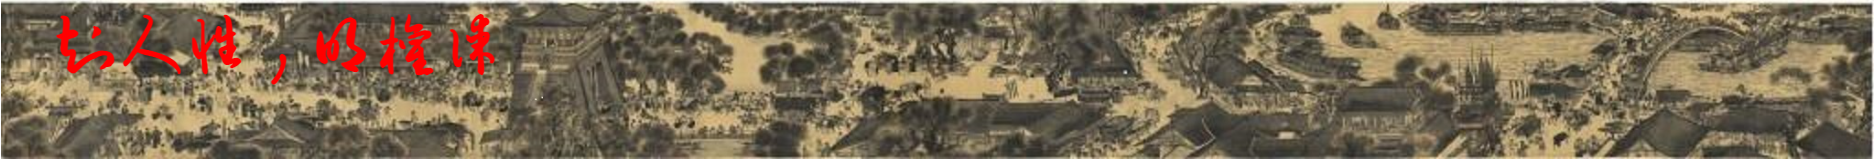
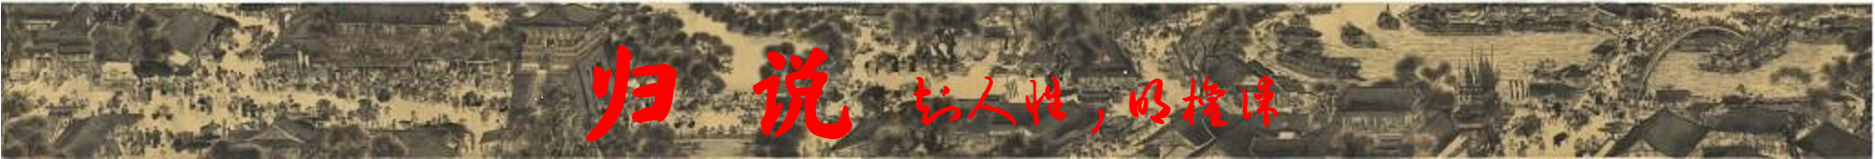
updates

diff --git a/index.html b/index.html
@@ -10,8 +10,31 @@
     <link rel="stylesheet" href="./src/css@3.css">
     <script type="text/javascript" src="./src/init-nav.js"></script>
     <script src = "https://ajax.googleapis.com/ajax/libs/jquery/2.1.3/jquery.min.js"></script>
-    <style type="text/css">@import url('https://themes.googleusercontent.com/fonts/css?kit=tAvLzC4MWhsALh6Fv508biR3zv79o_3FO6DF_2gpXwQe8vnHY0A_yNXGAaBuBOA4');ol{margin:0;padding:0}table td,table th{padding:0}.c23{-webkit-text-decoration-skip:none;color:#000000;font-weight:400;text-decoration:underline;vertical-align:baseline;text-decoration-skip-ink:none;font-size:16pt;font-family:"Ma Shan Zheng";font-style:normal}.c12{-webkit-text-decoration-skip:none;color:#000000;font-weight:700;text-decoration:underline;vertical-align:baseline;text-decoration-skip-ink:none;font-size:16pt;font-family:"Ma Shan Zheng";font-style:normal}.c29{padding-top:0pt;border-bottom-color:#000000;border-bottom-width:0.8pt;padding-bottom:1pt;line-height:1.0;border-bottom-style:solid;text-align:center}.c19{color:#000000;font-weight:400;text-decoration:none;vertical-align:baseline;font-size:18pt;font-family:"Ma Shan Zheng";font-style:normal}.c0{color:#000000;font-weight:400;text-decoration:none;vertical-align:baseline;font-size:16pt;font-family:"Ma Shan Zheng";font-style:normal}.c20{color:#000000;font-weight:700;text-decoration:none;vertical-align:baseline;font-size:18pt;font-family:"Ma Shan Zheng";font-style:normal}.c15{color:#000000;font-weight:700;text-decoration:none;vertical-align:baseline;font-size:22pt;font-family:"Ma Shan Zheng";font-style:normal}.c9{color:#000000;font-weight:400;text-decoration:none;vertical-align:baseline;font-size:42pt;font-family:"Ma Shan Zheng";font-style:normal}.c7{color:#000000;font-weight:700;text-decoration:none;vertical-align:baseline;font-size:16pt;font-family:"Ma Shan Zheng";font-style:normal}.c22{color:#000000;font-weight:400;text-decoration:none;vertical-align:baseline;font-size:26pt;font-family:"Ma Shan Zheng";font-style:normal}.c33{color:#000000;font-weight:700;text-decoration:none;vertical-align:baseline;font-size:42pt;font-family:"Ma Shan Zheng";font-style:normal}.c16{color:#000000;font-weight:700;text-decoration:none;vertical-align:baseline;font-size:26pt;font-family:"Ma Shan Zheng";font-style:normal}.c5{color:#000000;font-weight:400;text-decoration:none;vertical-align:baseline;font-size:10.5pt;font-family:"Ma Shan Zheng";font-style:normal}.c24{color:#000000;font-weight:400;text-decoration:none;vertical-align:baseline;font-size:9pt;font-family:"Ma Shan Zheng";font-style:normal}.c6{color:#000000;font-weight:400;text-decoration:none;vertical-align:baseline;font-size:22pt;font-family:"Ma Shan Zheng";font-style:normal}.c2{padding-top:0pt;padding-bottom:0pt;line-height:1.0;text-align:justify;height:10pt}.c18{padding-top:0pt;padding-bottom:0pt;line-height:1.0;text-align:left;margin-right:18pt}.c4{padding-top:0pt;padding-bottom:0pt;line-height:1.0;text-indent:80pt;text-align:justify}.c1{padding-top:0pt;padding-bottom:0pt;line-height:1.0;text-indent:32pt;text-align:justify}.c28{padding-top:0pt;padding-bottom:0pt;line-height:1.0;text-align:right}.c3{padding-top:0pt;padding-bottom:0pt;line-height:1.0;text-align:center}.c8{padding-top:0pt;padding-bottom:0pt;line-height:1.0;text-align:justify}.c27{background-color:#ffffff;max-width:415.3pt;padding:72pt 90pt 72pt 90pt}.c21{text-indent:112pt}.c26{text-indent:31.5pt}.c17{text-indent:64pt}.c32{text-indent:112.5pt}.c30{text-indent:336pt}.c13{height:10pt}.c14{text-indent:32pt}.c25{text-indent:144pt}.c10{text-indent:32.1pt}.c31{text-indent:96pt}.c11{margin-left:31.9pt}.title{padding-top:24pt;color:#000000;font-weight:700;font-size:36pt;padding-bottom:6pt;font-family:"Ma Shan Zheng";line-height:1.0;page-break-after:avoid;orphans:2;widows:2;text-align:left}.subtitle{padding-top:18pt;color:#666666;font-size:24pt;padding-bottom:4pt;font-family:"Georgia";line-height:1.0;page-break-after:avoid;font-style:italic;orphans:2;widows:2;text-align:left}
-    li{color:#000000;font: size 14px;pt;font-family:"Ma Shan Zheng"}p{margin:0;color:#000000;font-size:10pt;font-family:"Ma Shan Zheng"}h1{padding-top:24pt;color:#000000;font-weight:700;font-size:24pt;padding-bottom:6pt;font-family:"Ma Shan Zheng";line-height:1.0;page-break-after:avoid;orphans:2;widows:2;text-align:left}h2{padding-top:18pt;color:#000000;font-weight:700;font-size:18pt;padding-bottom:4pt;font-family:"Ma Shan Zheng";line-height:1.0;page-break-after:avoid;orphans:2;widows:2;text-align:left}h3{padding-top:14pt;color:#000000;font-weight:700;font-size:14pt;padding-bottom:4pt;font-family:"Ma Shan Zheng";line-height:1.0;page-break-after:avoid;orphans:2;widows:2;text-align:left}h4{padding-top:12pt;color:#000000;font-weight:700;font-size:12pt;padding-bottom:2pt;font-family:"Ma Shan Zheng";line-height:1.0;page-break-after:avoid;orphans:2;widows:2;text-align:left}h5{padding-top:11pt;color:#000000;font-weight:700;font-size:11pt;padding-bottom:2pt;font-family:"Ma Shan Zheng";line-height:1.0;page-break-after:avoid;orphans:2;widows:2;text-align:left}h6{padding-top:10pt;color:#000000;font-weight:700;font-size:10pt;padding-bottom:2pt;font-family:"Ma Shan Zheng";line-height:1.0;page-break-after:avoid;orphans:2;widows:2;text-align:left}</style>
+    <style type="text/css">
+    @import url('https://themes.googleusercontent.com/fonts/css?kit=tAvLzC4MWhsALh6Fv508biR3zv79o_3FO6DF_2gpXwQe8vnHY0A_yNXGAaBuBOA4');
+    ol{margin:0;padding:0}
+    table td,table th{padding:0}
+    .c23{-webkit-text-decoration-skip:none;color:#000000;font-weight:400;text-decoration:underline;vertical-align:baseline;text-decoration-skip-ink:none;font-size:16pt;font-family:"Ma Shan Zheng";font-style:normal}
+    .c12{-webkit-text-decoration-skip:none;color:#000000;font-weight:700;text-decoration:underline;vertical-align:baseline;text-decoration-skip-ink:none;font-size:16pt;font-family:"Ma Shan Zheng";font-style:normal}
+    .c29{padding-top:0pt;border-bottom-color:#000000;border-bottom-width:0.8pt;padding-bottom:1pt;line-height:1.0;border-bottom-style:solid;text-align:center}.c19{color:#000000;font-weight:400;text-decoration:none;vertical-align:baseline;font-size:18pt;font-family:"Ma Shan Zheng";font-style:normal}
+    .c0{color:#000000;font-weight:400;text-decoration:none;vertical-align:baseline;font-size:16pt;font-family:"Ma Shan Zheng";font-style:normal}.c20{color:#000000;font-weight:700;text-decoration:none;vertical-align:baseline;font-size:18pt;font-family:"Ma Shan Zheng";font-style:normal}.c15{color:#000000;font-weight:700;text-decoration:none;vertical-align:baseline;font-size:22pt;font-family:"Ma Shan Zheng";font-style:normal}.c9{color:#000000;font-weight:400;text-decoration:none;vertical-align:baseline;font-size:42pt;font-family:"Ma Shan Zheng";font-style:normal}.c7{color:#000000;font-weight:700;text-decoration:none;vertical-align:baseline;font-size:16pt;font-family:"Ma Shan Zheng";font-style:normal}.c22{color:#000000;font-weight:400;text-decoration:none;vertical-align:baseline;font-size:26pt;font-family:"Ma Shan Zheng";font-style:normal}.c33{color:#000000;font-weight:700;text-decoration:none;vertical-align:baseline;font-size:42pt;font-family:"Ma Shan Zheng";font-style:normal}.c16{color:#000000;font-weight:700;text-decoration:none;vertical-align:baseline;font-size:26pt;font-family:"Ma Shan Zheng";font-style:normal}.c5{color:#000000;font-weight:400;text-decoration:none;vertical-align:baseline;font-size:10.5pt;font-family:"Ma Shan Zheng";font-style:normal}.c24{color:#000000;font-weight:400;text-decoration:none;vertical-align:baseline;font-size:9pt;font-family:"Ma Shan Zheng";font-style:normal}.c6{color:#000000;font-weight:400;text-decoration:none;vertical-align:baseline;font-size:22pt;font-family:"Ma Shan Zheng";font-style:normal}.c2{padding-top:0pt;padding-bottom:0pt;line-height:1.0;text-align:justify;height:10pt}.c18{padding-top:0pt;padding-bottom:0pt;line-height:1.0;text-align:left;margin-right:18pt}.c4{padding-top:0pt;padding-bottom:0pt;line-height:1.0;text-indent:80pt;text-align:justify}.c1{padding-top:0pt;padding-bottom:0pt;line-height:1.0;text-indent:32pt;text-align:justify}.c28{padding-top:0pt;padding-bottom:0pt;line-height:1.0;text-align:right}.c3{padding-top:0pt;padding-bottom:0pt;line-height:1.0;text-align:center}.c8{padding-top:0pt;padding-bottom:0pt;line-height:1.0;text-align:justify}.c27{background-color:#ffffff;max-width:415.3pt;padding:72pt 90pt 72pt 90pt}.c21{text-indent:112pt}.c26{text-indent:31.5pt}.c17{text-indent:64pt}.c32{text-indent:112.5pt}.c30{text-indent:336pt}.c13{height:10pt}.c14{text-indent:32pt}.c25{text-indent:144pt}.c10{text-indent:32.1pt}.c31{text-indent:96pt}.c11{margin-left:31.9pt}.title{padding-top:24pt;color:#000000;font-weight:700;font-size:36pt;padding-bottom:6pt;font-family:"Ma Shan Zheng";line-height:1.0;page-break-after:avoid;orphans:2;widows:2;text-align:left}.subtitle{padding-top:18pt;color:#666666;font-size:24pt;padding-bottom:4pt;font-family:"Georgia";line-height:1.0;page-break-after:avoid;font-style:italic;orphans:2;widows:2;text-align:left}
+    li{color:#000000;font: size 14px;pt;font-family:"Ma Shan Zheng"}
+    p{margin:0;color:#000000;font-size:10pt;font-family:"Ma Shan Zheng"}
+    h1{padding-top:24pt;color:#000000;font-weight:700;font-size:24pt;padding-bottom:6pt;font-family:"Ma Shan Zheng";line-height:1.0;page-break-after:avoid;orphans:2;widows:2;text-align:left}
+    h2{padding-top:18pt;color:#000000;font-weight:700;font-size:18pt;padding-bottom:4pt;font-family:"Ma Shan Zheng";line-height:1.0;page-break-after:avoid;orphans:2;widows:2;text-align:left}
+    h3{padding-top:14pt;color:#000000;font-weight:700;font-size:14pt;padding-bottom:4pt;font-family:"Ma Shan Zheng";line-height:1.0;page-break-after:avoid;orphans:2;widows:2;text-align:left}
+    h4{padding-top:12pt;color:#000000;font-weight:700;font-size:12pt;padding-bottom:2pt;font-family:"Ma Shan Zheng";line-height:1.0;page-break-after:avoid;orphans:2;widows:2;text-align:left}
+    h5{padding-top:11pt;color:#000000;font-weight:700;font-size:11pt;padding-bottom:2pt;font-family:"Ma Shan Zheng";line-height:1.0;page-break-after:avoid;orphans:2;widows:2;text-align:left}
+    h6{padding-top:10pt;color:#000000;font-weight:700;font-size:10pt;padding-bottom:2pt;font-family:"Ma Shan Zheng";line-height:1.0;page-break-after:avoid;orphans:2;widows:2;text-align:left}
+    </style>
+    <style type="text/css">
+      @media (max-width:768px){
+        #header{background-image: url('./src/headerlogo.png');}
+      }
+      @media (min-width:769px){
+        #header{background-image: url('./src/quanmou.png');}
+      }
+    </style>
     <meta name="viewport" content="width=device-width, height=device-height, initial-scale=1.0, user-scalable=0, minimum-scale=1.0, maximum-scale=1.0">
 </head>
 <body onload="loadmenu();">
@@ -20,7 +43,7 @@
   <script src="https://unpkg.com/react@18/umd/react.development.js"></script>
   <script src="https://unpkg.com/react-dom@18/umd/react-dom.development.js"></script>
   <input style="display: none" class="menu-toggle-checkbox" type="checkbox" id="menu-toggle" />
-<div id="header" class="fix-nav nav-docs" style="background-image: url('./src/quanmou.png');">
+<div id="header" class="fix-nav nav-docs">
   <!--img id="logo" src="./src/quanmou.png" height="80"-->
     <!-- Load our React component. -->
   <label class="menu-toggle-icon" for="menu-toggle">
@@ -42,73 +65,10 @@
         <label class="submenu-toggle-click-target" for="just a test" tabindex="0" aria-label="Toggle Getting Started submenu" role="menuitem" aria-expanded="false">
             <span class="menu-item submenu-header" style="padding-left: 20px;font-weight: 500;">
                 <img src="./src/caret-right.svg">
-                <span><a href="#">Just a test</a></span>
+                <span><a href="#">...</a></span>
             </span>
         </label>
-      </li>
-      <li class="section" role="presentation">  
-        <input class="submenu-toggle-checkbox" type="checkbox" id="Getting Started" />
-        <label class="submenu-toggle-click-target" for="Getting Started" tabindex="0" aria-label="Toggle Getting Started submenu" role="menuitem" aria-expanded="false">
-            <span class="menu-item submenu-header" style="padding-left: 20px;font-weight: 500;">
-                <img src="./src/caret-right.svg">
-                <span>Getting Started</span>
-            </span>
-        </label>
-        <ul role="submenu">
-          <li class="section" role="presentation">
-              <a href="#" class="menu-item" aria-current="page" style="padding-left: 60px;" tabindex="0" role="menuitem" title="Go to documentation for Quick Start"> 
-                  <div>Quick Start</div>
-              </a>
-          </li>
-          <li class="section" role="presentation">
-            <a href="#" class="menu-item" aria-current="page" style="padding-left: 60px;" tabindex="0" role="menuitem" title="Go to documentation for Quick Start"> 
-                <div>Quick Start</div>
-            </a>
-          </li>
-          <li class="section" role="presentation">
-            <a href="#" class="menu-item " style="padding-left: 60px;" tabindex="0" role="menuitem" title="Go to documentation for Honeycomb Overview"> 
-                <div>Honeycomb Overview</div>
-            </a>
-          </li>
-          <li class="section" role="presentation">
-            <a href="#" class="menu-item " style="padding-left: 60px;" tabindex="0" role="menuitem" title="Go to documentation for Honeycomb Overview"> 
-                <div>Honeycomb Overview</div>
-            </a>
-          </li>
-        </ul>
-        </li>
-        <li class="section" role="presentation">  
-          <input class="submenu-toggle-checkbox" type="checkbox" id="Getting Started 2" />
-          <label class="submenu-toggle-click-target" for="Getting Started 2" tabindex="0" aria-label="Toggle Getting Started submenu" role="menuitem" aria-expanded="false">
-              <span class="menu-item submenu-header" style="padding-left: 20px;font-weight: 500;">
-                  <img src="./src/caret-right.svg">
-                  <span>Getting Started 2</span>
-              </span>
-          </label>
-          <ul role="submenu">
-            <li class="section" role="presentation">
-                <a href="#" class="menu-item" aria-current="page" style="padding-left: 60px;" tabindex="0" role="menuitem" title="Go to documentation for Quick Start"> 
-                    <div>Quick Start 2</div>
-                </a>
-            </li>
-            <li class="section" role="presentation">
-              <a href="#" class="menu-item" aria-current="page" style="padding-left: 60px;" tabindex="0" role="menuitem" title="Go to documentation for Quick Start"> 
-                  <div>Quick Start 2</div>
-              </a>
-            </li>
-            <li class="section" role="presentation">
-              <a href="#" class="menu-item " style="padding-left: 60px;" tabindex="0" role="menuitem" title="Go to documentation for Honeycomb Overview"> 
-                  <div>Honeycomb Overview 2</div>
-              </a>
-            </li>
-            <li class="section" role="presentation">
-              <a href="#" class="menu-item " style="padding-left: 60px;" tabindex="0" role="menuitem" title="Go to documentation for Honeycomb Overview"> 
-                  <div>Honeycomb Overview 2</div>
-              </a>
-            </li>
-          </ul>
-          </li>
-          
+      </li>     
     </ul>
   </nav>
 </div>
@@ -117,14 +77,26 @@
   <div class="docs-inner-container">
     <div class="docs-content">
       <div id="main" style="align-content: center;">
-        <p class="c3"><span class="c15">&#20316;&#32773;&#31616;&#20171;</span></p><p class="c2"><span class="c0"></span></p><p class="c1"><span class="c0">&#25140;&#20803;&#40857;&#65292;&#26165;&#31216;&ldquo;&#21487;&#32789;&#22320;&rdquo;&#65292;&#33258;&#21495;&ldquo;&#19971;&#28165;&#23376;&rdquo;&#65292;&#30007;&#65292;1970&#24180;&#20986;&#29983;&#20110;&#31119;&#24314;&#30465;&#33670;&#30000;&#24066;&#33620;&#22478;&#21306;&#19968;&#20892;&#27665;&#23478;&#24237;&#65292;2014&#24180;&#34987;&#20013;&#22269;&#28040;&#36153;&#32773;&#21327;&#20250;&#35780;&#20026;&ldquo;&#28040;&#36153;&#32773;&#20445;&#25252;&#36816;&#21160;30&#24180;&#28040;&#36153;&#32500;&#26435;&#36129;&#29486;&#20154;&#29289;&rdquo;&#65292;&#36130;&#31246;&#32463;&#27982;&#24072;&#32844;&#31216;&#36164;&#26684;&#65292;&#21407;&#20379;&#32844;&#20110;&#31119;&#24314;&#30465;&#20844;&#36335;&#31293;&#24449;&#23616;&#33670;&#30000;&#31293;&#24449;&#22788;&#65292;&#20860;&#31119;&#24314;&#30465;&#20844;&#36335;&#31293;&#24449;&#23616;&#20844;&#32844;&#24459;&#24072;&#65292;2010&#24180;&#22269;&#23478;&#23454;&#26045;&ldquo;&#25104;&#21697;&#27833;&#31246;&#36153;&#25913;&#38761;&rdquo;&#21518;&#36716;&#23703;&#22269;&#31246;&#37096;&#38376;&#65292;&#29616;&#20379;&#32844;&#20110;&#22269;&#23478;&#31246;&#21153;&#24635;&#23616;&#33670;&#30000;&#24066;&#22478;&#21410;&#21306;&#31246;&#21153;&#23616;&#12290;</span></p>
-     
+        <p class="c3"><span class="c15">&#29305;&#21035;&#25552;&#37266;</span></p>
+        <p class="c2"><span class="c0"></span></p>
+        <p class="c1"><span class="c0">&#26412;&#20070;&#20035;&#35782;&#24694;&#27835;&#20081;&#20043;&#35828;&#65292;&#38750;&#27785;&#31283;&#32773;&#65292;&#19981;&#23452;&#30740;&#35835;&#12290;</span></p>
+        <p class="c1"><span class="c0">&#19981;&#35782;&#20154;&#24615;&#31169;&#24694;&#65292;&#27835;&#20081;&#38590;&#25104;&#12290;</span></p>
+        <p class="c1"><span class="c0">&#27835;&#20081;&#21487;&#20986;&#22855;&#12290;&#22855;&#65292;&#26435;&#35851;&#20063;&#12290;&#20961;&#26435;&#35851;&#65292;&#29992;&#20110;&#22806;&#26131;&#32988;&#65292;&#29992;&#20110;&#20869;&#26131;&#20081;&#65292;&#28982;&#20869;&#22806;&#24120;&#21464;&#65292;&#20854;&#29992;&#19981;&#21487;&#19981;&#24910;&#65281;</span></p>
+        <p class="c1"><span class="c0">&#27835;&#22823;&#25919;&#24403;&#23432;&#27491;&#12290;&#27491;&#65292;&#35802;&#20063;&#12289;&#20449;&#20063;&#12289;&#20161;&#20063;&#12289;&#20041;&#20063;&#12289;&#31036;&#20063;&#12290;&#19981;&#27491;&#20043;&#27835;&#65292;&#19981;&#33021;&#25345;&#20037;&#65292;&#20854;&#27835;&#24517;&#20081;&#24517;&#36133;&#65281;</span></p>
+        <p class="c1"><span class="c0">&#20154;&#26080;&#31169;&#24694;&#65292;&#26435;&#35851;&#26080;&#29992;&#12290;&#19981;&#30693;&#26435;&#35851;&#65292;&#26131;&#20026;&#20154;&#35851;&#12290;&#26435;&#35851;&#20105;&#26007;&#65292;&#31096;&#22312;&#20854;&#21518;&#12290;&#22826;&#24179;&#30427;&#19990;&#65292;&#20154;&#24515;&#21521;&#21892;&#65292;&#20070;&#20013;&#35266;&#28857;&#19981;&#21487;&#20351;&#29992;&#12290;</span></p>
+        <p class="c8 c30"><span class="c0">&mdash;&mdash;&#20316;&#32773;</span></p>
+        <p class="c2"><span class="c5"></span></p><p class="c2"><span class="c5"></span></p><p class="c2"><span class="c5"></span></p>
+        <p class="c2"><span class="c5"></span></p>
+              
       </div>
       <footer class="docs-footer-legal">
           <hr>
           <ul>
               <li>
-              <a href="https://www.honeycomb.io/terms/" target="_blank" class="external" style="font-size: medium;">版权<img src="./src/external-link.svg"></a>
+              <a href="JavaScript:loadContent('./content/Content_zz.html');" class="external" style="font-size: medium;">作者<img src="./src/author.png" width="12", height="12"></a>
+              </li>
+              <li>
+              <a href="JavaScript:loadContent('./content/Content1.html');" class="external" style="font-size: medium;">版权<img src="./src/external-link.svg"></a>
               </li>
           </ul>
       </footer>

diff --git a/content/Content_zz.html b/content/Content_zz.html
@@ -1,0 +1,6 @@
+<p class="c3"><span class="c15">&#20316;&#32773;&#31616;&#20171;</span></p>
+<p class="c2"><span class="c0"></span></p>
+<p class="c1"><span class="c0">&#25140;&#20803;&#40857;&#65292;&#26165;&#31216;&ldquo;&#21487;&#32789;&#22320;&rdquo;&#65292;&#33258;&#21495;&ldquo;&#19971;&#28165;&#23376;&rdquo;&#65292;&#30007;&#65292;1970&#24180;&#20986;&#29983;&#20110;&#31119;&#24314;&#30465;&#33670;&#30000;&#24066;&#33620;&#22478;&#21306;&#19968;&#20892;&#27665;&#23478;&#24237;&#65292;2014&#24180;&#34987;&#20013;&#22269;&#28040;&#36153;&#32773;&#21327;&#20250;&#35780;&#20026;&ldquo;&#28040;&#36153;&#32773;&#20445;&#25252;&#36816;&#21160;30&#24180;&#28040;&#36153;&#32500;&#26435;&#36129;&#29486;&#20154;&#29289;&rdquo;&#65292;&#36130;&#31246;&#32463;&#27982;&#24072;&#32844;&#31216;&#36164;&#26684;&#65292;&#21407;&#20379;&#32844;&#20110;&#31119;&#24314;&#30465;&#20844;&#36335;&#31293;&#24449;&#23616;&#33670;&#30000;&#31293;&#24449;&#22788;&#65292;&#20860;&#31119;&#24314;&#30465;&#20844;&#36335;&#31293;&#24449;&#23616;&#20844;&#32844;&#24459;&#24072;&#65292;2010&#24180;&#22269;&#23478;&#23454;&#26045;&ldquo;&#25104;&#21697;&#27833;&#31246;&#36153;&#25913;&#38761;&rdquo;&#21518;&#36716;&#23703;&#22269;&#31246;&#37096;&#38376;&#65292;&#29616;&#20379;&#32844;&#20110;&#22269;&#23478;&#31246;&#21153;&#24635;&#23616;&#33670;&#30000;&#24066;&#22478;&#21410;&#21306;&#31246;&#21153;&#23616;&#12290;</span></p>
+<p class="c2"><span class="c5"></span></p><p class="c2"><span class="c5"></span></p><p class="c2"><span class="c5"></span></p>
+<p class="c2"><span class="c5"></span></p>
+          

diff --git a/content/Content2.html b/content/Content2.html
@@ -7,8 +7,5 @@
 <p class="c1"><span class="c0">&#20154;&#26080;&#31169;&#24694;&#65292;&#26435;&#35851;&#26080;&#29992;&#12290;&#19981;&#30693;&#26435;&#35851;&#65292;&#26131;&#20026;&#20154;&#35851;&#12290;&#26435;&#35851;&#20105;&#26007;&#65292;&#31096;&#22312;&#20854;&#21518;&#12290;&#22826;&#24179;&#30427;&#19990;&#65292;&#20154;&#24515;&#21521;&#21892;&#65292;&#20070;&#20013;&#35266;&#28857;&#19981;&#21487;&#20351;&#29992;&#12290;</span></p>
 <p class="c8 c30"><span class="c0">&mdash;&mdash;&#20316;&#32773;</span></p>
 <p class="c2"><span class="c5"></span></p><p class="c2"><span class="c5"></span></p><p class="c2"><span class="c5"></span></p>
-<p class="c2"><span class="c5"></span></p><p class="c2"><span class="c5"></span></p><p class="c2"><span class="c5"></span></p>
-<p class="c2"><span class="c5"></span></p><p class="c2"><span class="c5"></span></p><p class="c2"><span class="c5"></span></p>
-<p class="c2"><span class="c5"></span></p><p class="c2"><span class="c5"></span></p><p class="c2"><span class="c5"></span></p>
-<p class="c2"><span class="c5"></span></p><p class="c2"><span class="c5"></span></p><p class="c2"><span class="c5"></span></p><p class="c2"><span class="c5"></span></p><p class="c2"><span class="c5"></span></p><p class="c2"><span class="c5"></span></p><p class="c2"><span class="c5"></span></p><p class="c2"><span class="c5"></span></p><p class="c2"><span class="c5"></span></p><p class="c2"><span class="c5"></span></p>
+<p class="c2"><span class="c5"></span></p>
       

diff --git a/content/content3.html b/content/content3.html
@@ -8,16 +8,4 @@
 <p class="c1"><span class="c0">&#22320;&#29699;&#22278;&#28014;&#20110;&#23431;&#23449;&#65292;&#22825;&#22530;&#22312;&#20154;&#38388;&#20043;&#19978;&#65292;&#21448;&#22312;&#22320;&#29425;&#20043;&#21518;&#12290;</span></p>
 <p class="c1"><span class="c0">&#20154;&#24615;&#38452;&#31169;&#65292;&#23427;&#36896;&#23601;&#30340;&#26159;&#22320;&#29425;&#65292;&#33509;&#19981;&#31359;&#36879;&#65292;&#22825;&#22530;&#38590;&#35265;&#65281;</span></p>
 <p class="c2"><span class="c5"></span></p>
-<p class="c2"><span class="c5"></span></p>
-<p class="c2"><span class="c5"></span></p>
 <p class="c2"><span class="c5"></span></p><p class="c2"><span class="c5"></span></p><p class="c2"><span class="c5"></span></p>
-<p class="c2"><span class="c5"></span></p><p class="c2"><span class="c5"></span></p><p class="c2"><span class="c5"></span></p>
-<p class="c2"><span class="c5"></span></p><p class="c2"><span class="c5"></span></p><p class="c2"><span class="c5"></span></p>
-<p class="c2"><span class="c5"></span></p><p class="c2"><span class="c5"></span></p><p class="c2"><span class="c5"></span></p>
-<p class="c2"><span class="c5"></span></p><p class="c2"><span class="c5"></span></p><p class="c2"><span class="c5"></span></p>
-<p class="c2"><span class="c5"></span></p><p class="c2"><span class="c5"></span></p><p class="c2"><span class="c5"></span></p>
-<p class="c2"><span class="c5"></span></p><p class="c2"><span class="c5"></span></p><p class="c2"><span class="c5"></span></p>
-
-
-
-

diff --git a/src/init-nav.js b/src/init-nav.js
@@ -27,7 +27,7 @@
       activeMenuLink.scrollIntoView();
     }
   }
-
+  var previousObj = null;
   function registerSubmenuToggleListeners() {
     const submenuToggles = document.querySelectorAll(
       ".sidebar .submenu-toggle-click-target"
@@ -38,9 +38,16 @@
         const toggle = e.target.closest("label");
         const submenu = toggle.nextElementSibling;
         const isOpen = toggle.ariaExpanded === "true" ? false : true;
-
+        if(previousObj!=null){
+          if(previousObj.ariaExpanded === "true")  {
+            previousObj.setAttribute("aria-expanded", "false");
+            if(previousObj.nextElementSibling) previousObj.nextElementSibling.setAttribute("aria-hidden", "true");
+          }
+        }
         toggle.setAttribute("aria-expanded", isOpen.toString());
         submenu.setAttribute("aria-hidden", (!isOpen).toString());
+        if(toggle.ariaExpanded === "true")
+          previousObj = toggle;
       });
 
       t.addEventListener("keyup", (e) => {
@@ -112,6 +119,7 @@ function loadmenu(){
     var menus = JSON.parse(this.responseText);
     menus.forEach(outputMenu);
     document.getElementById("menus").innerHTML = menuHtml;
+    alert("Menu Loaded!");
   }
   xmlhttp.open("GET", "./content/menu.json");
   xmlhttp.send();

diff --git a/content/Content1.html b/content/Content1.html
@@ -1,5 +1,7 @@
-作者简介
-
-戴元龙，昵称“可耕地”，自号“七清子”，男，1970年出生于福建省莆田市荔城区一农民家庭，2014年被中国消费者协会评为“消费者保护运动30年消费维权贡献人物”，财税经济师职称资格，原供职于福建省公路稽征局莆田稽征处，兼福建省公路稽征局公职律师，2010年国家实施“成品油税费改革”后转岗国税部门，
-            现供职于国家税务总局莆田市城厢区税务局。
+<p class="c3"><span class="c15">版权</span></p>
+<p class="c2"><span class="c0"></span></p>
+<p class="c1"><span class="c0">"归说"一书所有版权和解说权归作者所有。</span></p>
+<p class="c1"><span class="c0">本网站是作者唯一授权发布“归说”一书，转载请说明出处。</span></p>
+<p class="c2"><span class="c5"></span></p><p class="c2"><span class="c5"></span></p><p class="c2"><span class="c5"></span></p>
+<p class="c2"><span class="c5"></span></p>
           
